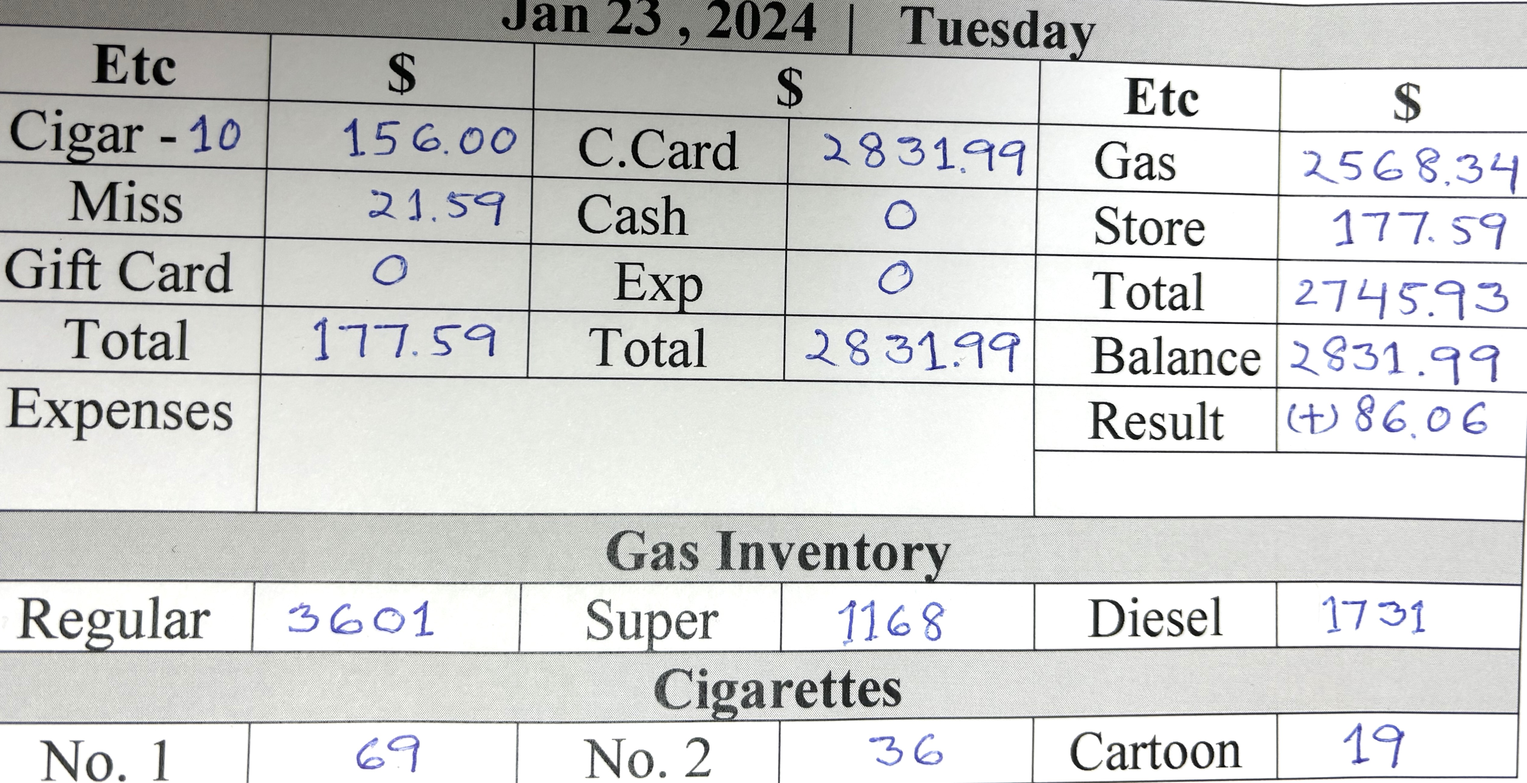
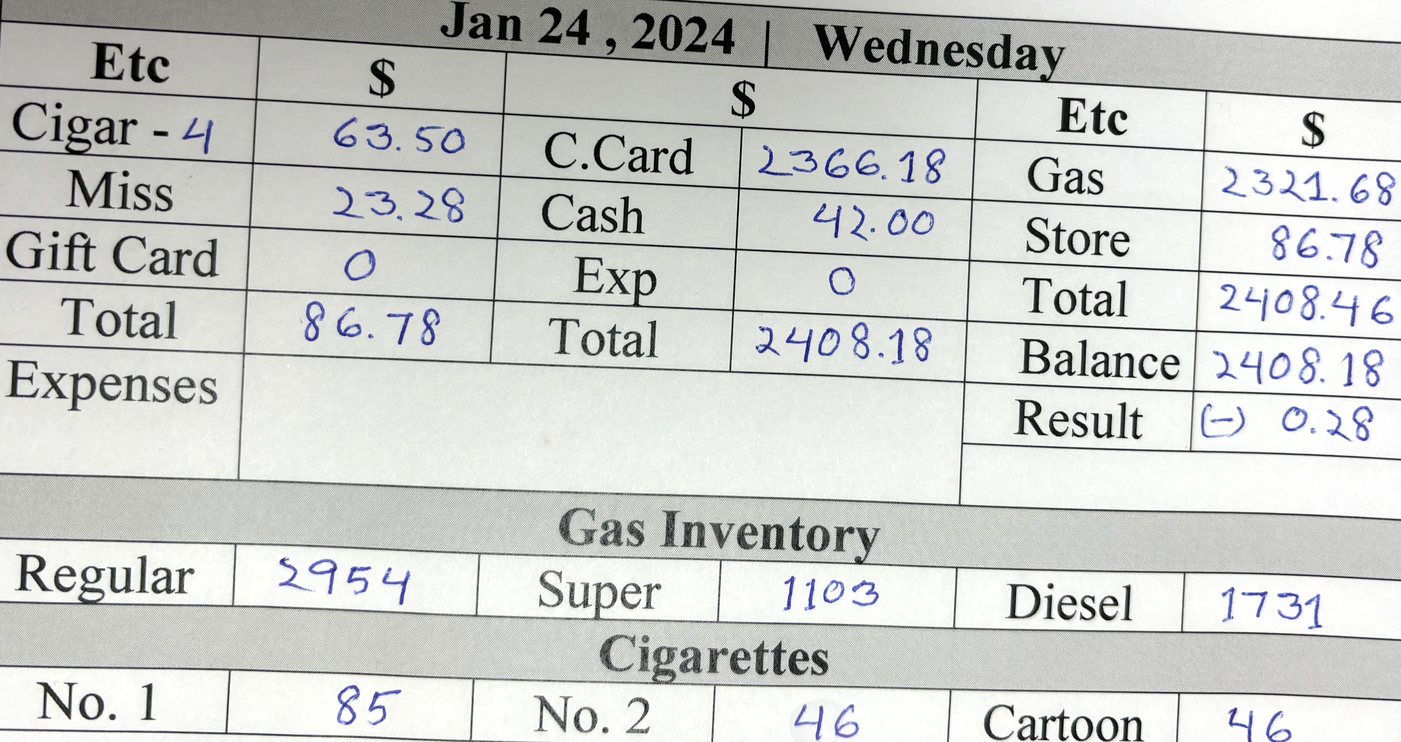
24 done

diff --git a/card.min.html b/card.min.html
@@ -1,1 +1,1 @@
-<!DOCTYPE html> <html lang="en"> <head> <meta charset="UTF-8"> <meta http-equiv="X-UA-Compatible" content="IE=edge"> <meta name="viewport" content="width=device-width,initial-scale=1"> <title>Gallon Info</title> <link rel="stylesheet" href="https://cdn.jsdelivr.net/npm/bootstrap@5.3.0-alpha1/dist/css/bootstrap.min.css"> </head> <body> <div class="card-group d-sm-flex flex-row bd-highlight mb- justify-content-center"> <div class="card bg-secondary align-items-center justify-content-center" style="height:50px"> <div class="card-body text-info fst-italic"> <h5 class="card-title fw-bolder text-center">Regular Price : <span class="text-warning">$3.09</span></h5> </div> </div> <div class="card bg-secondary align-items-center justify-content-center" style="height:50px"> <div class="card-body text-info fst-italic"> <h5 class="card-title fw-bolder text-center pt-">Silver Price : <span class="text-warning">$3.99</span></h5> </div> </div> <div class="card bg-secondary align-items-center justify-content-center" style="height:50px"> <div class="card-body text-info fst-italic"> <h5 class="card-title fw-bolder text-center">Super Price : <span class="text-warning">$4.09</span></h5> </div> </div> <div class="card bg-secondary align-items-center justify-content-center" style="height:50px"> <div class="card-body text-info fst-italic"> <h5 class="card-title fw-bolder text-center">Diesel Price : <span class="text-warning">$4.39</span></h5> </div> </div> </div> <div class="card-group"> <div class="card"> <button type="button" class="btn btn-warning text- fs- fw-bold text-uppercase"> For store Details <a title="printPage Me" class="text-bg-danger ms-3 fw-bolder p-1 rounded-3 text-decoration-none" href="index.html"> Click Me </a> </button> </div> </div> <div class="card-group m-0 d-sm-flex flex-row bd-highlight mb-"> <div class="card me-1 bg-info"> <h5 class="card-title text-center pt-4 m-0"> <button class="p-1 rounded-3" type="button"><a title="Click Me" class="text-decoration-none text-primary fw-bolder" href="index.html">   </a> </button> </h5>  <p class="card-text"></p> <img src="allPic/23.jpg" class="card-img-top text-danger text-center fw-bolder fs-3" alt="Call Rashid "> <div class="card-body">   <p class="card-text"></p> </div> </div> <div class="card me-1 bg-info"> <h5 class="card-title text-center pt-4 m-0"> <button class="p-1 rounded-3" type="button"><a title="Click Me" class="text-primary fw-bolder text-decoration-none" href="index.html"> Jan 22,2024 </a> </button> </h5>  <p class="card-text"></p> <img src="allPic/22.jpg" class="card-img-top text-center text-bg-danger" alt="Not Done"> <div class="card-body">   <p class="card-text"></p> </div> </div> <div class="card ms- bg-info"> <h5 class="card-title text-center pt-4 m-0"> <button class="p-1 rounded-3" type="button"><a title="Click Me" class="text-primary fw-bolder text-decoration-none" href="index.html"> Jan 21,2024 </a> </button> </h5>  <p class="card-text"></p> <img src="allPic/21.jpg" class="card-img-top text-center text-bg-danger" alt="Not Done"> <div class="card-body">   <p class="card-text"></p> </div> </div> <div class="card me-1 bg-info"> <h5 class="card-title text-center pt-4 m-0"> <button class="p-1 rounded-3" type="button"><a title="Click Me" class="text-primary fw-bolder text-decoration-none" href="index.html"> Jan 20,2024 </a> </button> </h5>  <p class="card-text"></p> <img title="Pic" src="allPic/20.jpg" class="card-img-top text-bg-danger fw-bolder text-center" alt="Already Done"> <div class="card-body">   <p class="card-text"></p> </div> </div> </div> <div class="card"> <div class="card-header bg-warning text-dark fw-bolder text-center py-3"> All Rights Reserved @ Jaber Ali , 2024 </div> </div>  <script type="text/javascript">const timeElement=document.querySelector(".time"),dateElement=document.querySelector(".date");function formatTime(e){e.getHours(),e.getMinutes(),e.getHours();return""}function formatDate(e){return` ${["January","February","March","April","May","June","July","August","September","October","November","December"][e.getMonth()]} ${e.getDate()-1}, ${e.getFullYear()}`}setInterval((()=>{const e=new Date;timeElement.textContent=formatTime(e),dateElement.textContent=formatDate(e)}),200)</script> 
+<!DOCTYPE html> <html lang="en"> <head> <meta charset="UTF-8"> <meta http-equiv="X-UA-Compatible" content="IE=edge"> <meta name="viewport" content="width=device-width,initial-scale=1"> <title>Gallon Info</title> <link rel="stylesheet" href="https://cdn.jsdelivr.net/npm/bootstrap@5.3.0-alpha1/dist/css/bootstrap.min.css"> </head> <body> <div class="card-group d-sm-flex flex-row bd-highlight mb- justify-content-center"> <div class="card bg-secondary align-items-center justify-content-center" style="height:50px"> <div class="card-body text-info fst-italic"> <h5 class="card-title fw-bolder text-center">Regular Price : <span class="text-warning">$2.99</span></h5> </div> </div> <div class="card bg-secondary align-items-center justify-content-center" style="height:50px"> <div class="card-body text-info fst-italic"> <h5 class="card-title fw-bolder text-center pt-">Silver Price : <span class="text-warning">$3.89</span></h5> </div> </div> <div class="card bg-secondary align-items-center justify-content-center" style="height:50px"> <div class="card-body text-info fst-italic"> <h5 class="card-title fw-bolder text-center">Super Price : <span class="text-warning">$3.99</span></h5> </div> </div> <div class="card bg-secondary align-items-center justify-content-center" style="height:50px"> <div class="card-body text-info fst-italic"> <h5 class="card-title fw-bolder text-center">Diesel Price : <span class="text-warning">$4.39</span></h5> </div> </div> </div> <div class="card-group"> <div class="card"> <button type="button" class="btn btn-warning text- fs- fw-bold text-uppercase"> For store Details <a title="printPage Me" class="text-bg-danger ms-3 fw-bolder p-1 rounded-3 text-decoration-none" href="index.html"> Click Me </a> </button> </div> </div> <div class="card-group m-0 d-sm-flex flex-row bd-highlight mb-"> <div class="card me-1 bg-info"> <h5 class="card-title text-center pt-4 m-0"> <button class="p-1 rounded-3" type="button"><a title="Click Me" class="text-decoration-none text-primary fw-bolder" href="index.html">   </a> </button> </h5>  <p class="card-text"></p> <img src="allPic/24.jpg" class="card-img-top text-danger text-center fw-bolder fs-3" alt="Call Rashid "> <div class="card-body">   <p class="card-text"></p> </div> </div> <div class="card me-1 bg-info"> <h5 class="card-title text-center pt-4 m-0"> <button class="p-1 rounded-3" type="button"><a title="Click Me" class="text-primary fw-bolder text-decoration-none" href="index.html"> Jan 23,2024 </a> </button> </h5>  <p class="card-text"></p> <img src="allPic/23.jpg" class="card-img-top text-center text-bg-danger" alt="Not Done"> <div class="card-body">   <p class="card-text"></p> </div> </div> <div class="card ms- bg-info"> <h5 class="card-title text-center pt-4 m-0"> <button class="p-1 rounded-3" type="button"><a title="Click Me" class="text-primary fw-bolder text-decoration-none" href="index.html"> Jan 22,2024 </a> </button> </h5>  <p class="card-text"></p> <img src="allPic/22.jpg" class="card-img-top text-center text-bg-danger" alt="Not Done"> <div class="card-body">   <p class="card-text"></p> </div> </div> <div class="card me-1 bg-info"> <h5 class="card-title text-center pt-4 m-0"> <button class="p-1 rounded-3" type="button"><a title="Click Me" class="text-primary fw-bolder text-decoration-none" href="index.html"> Jan 21,2024 </a> </button> </h5>  <p class="card-text"></p> <img title="Pic" src="allPic/21.jpg" class="card-img-top text-bg-danger fw-bolder text-center" alt="Already Done"> <div class="card-body">   <p class="card-text"></p> </div> </div> </div> <div class="card"> <div class="card-header bg-warning text-dark fw-bolder text-center py-3"> All Rights Reserved @ Jaber Ali , 2024 </div> </div>  <script type="text/javascript">const timeElement=document.querySelector(".time"),dateElement=document.querySelector(".date");function formatTime(e){e.getHours(),e.getMinutes(),e.getHours();return""}function formatDate(e){return` ${["January","February","March","April","May","June","July","August","September","October","November","December"][e.getMonth()]} ${e.getDate()-1}, ${e.getFullYear()}`}setInterval((()=>{const e=new Date;timeElement.textContent=formatTime(e),dateElement.textContent=formatDate(e)}),200)</script> 

diff --git a/weekly.min.html b/weekly.min.html
@@ -1,1 +1,1 @@
-<!DOCTYPE html> <html lang="en"> <meta charset="UTF-8"> <meta http-equiv="X-UA-Compatible" content="IE=edge"> <meta name="viewport" content="width=device-width,initial-scale=1"> <title>Cigarettes Info</title> <link rel="stylesheet" href="https://cdn.jsdelivr.net/npm/bootstrap@5.3.0-alpha1/dist/css/bootstrap.min.css">  <body> <div class="text-bg-success py-2 fw-bold"> <marquee behavior="" direction="">Weekly Total Sales Money</marquee> </div> <div class="container-fluid text-center m-0 p-0"> <div class="card-group"> <div class="card"> <button type="button" class="btn btn-warning fs- fw-bold text-uppercase"> Home Page <a title="printPage Me" class="text-bg-danger ms-2 fw-bolder p-1 rounded-3 text-decoration-none" href="index.html"> Click Me </a> </button> </div> </div> <div class="text-bg-info text-cente py- fw-bold mb-"> <div class="card-group m-0 d-sm-flex flex-row bd-highlight mb-"> <div class="card me- bg-inf"> <h5 class="text-center ms-5 mt-3 text-danger">Current Week</h5> <div class="card-body ms-3 p-0"> <table class="table"> <tr class="text-end"> <td>Monday </td> <td>:</td> <td class="text-start"> $ 537.00</td> </tr> <tr class="text-end"> <td>Tuesday </td> <td> :</td> <td class="text-start"> $ -86.00 [auto pabe]</td> </tr> <tr class="text-end"> <td>Wednesday</td> <td> :</td> <td class="text-start">$ 0.00</td> </tr> <tr class="text-end"> <td>Thursday </td> <td> :</td> <td class="text-start"> $ 0.00 </td> </tr> <tr class="text-end"> <td class="">Friday </td> <td> :</td> <td class="text-start"> $ 0.00 </td> </tr> <tr class="text-end"> <td>Saturday </td> <td> :</td> <td class="text-start">0.00</td> </tr> <tr class="text-end"> <td>Sunday </td> <td> :</td> <td class="text-start">0.00 </td> </tr> <tr class="text-end"> <td>Auto Money </td> <td> :</td> <td class="text-start"> 0.00</td> </tr> </table> <div class="m-0 p-0"> <p class="text-center text-danger bg-light fw-bold">Total Money : $ 00</p> </div> </div> </div> <div class="card me- bg-inf"> <h5 class="text-center ms-5 mt-3 text-danger">Last Week : Jan 15 to 21 , 2024</h5> <div class="card-body ms-3 p-0"> <table class="table"> <tr class="text-end"> <td>Monday </td> <td>:</td> <td class="text-start"> $ 594.00</td> </tr> <tr class="text-end"> <td>Tuesday </td> <td> :</td> <td class="text-start"> $ 490.00</td> </tr> <tr class="text-end"> <td>Wednesday</td> <td> :</td> <td class="text-start">$ 414.00</td> </tr> <tr class="text-end"> <td>Thursday </td> <td> :</td> <td class="text-start"> $ 390.00 </td> </tr> <tr class="text-end"> <td class="">Friday </td> <td> :</td> <td class="text-start"> $ 331.00 </td> </tr> <tr class="text-end"> <td>Saturday </td> <td> :</td> <td class="text-start">337.00</td> </tr> <tr class="text-end"> <td>Sunday </td> <td> :</td> <td class="text-start">426.00 </td> </tr> <tr class="text-end"> <td>Auto Money </td> <td> :</td> <td class="text-start"> 457.00 [Mostofa=451]</td> </tr> </table> <div class="m-0 p-0"> <p class="text-center text-danger bg-light fw-bold">Total Money : $ 3439 - 1097 = 2342</p> </div> </div> </div> <div class="card me- bg-"> <div class="card-body"> <h5 class="text-start text-danger ms-2">Expenses of Last Week</h5> <table class="table text-start"> <tr> <td class="">Ali <span class="ms-5">: $ 525.00</span></td> </tr> <tr> <td class="">Rashid <span class="ms-2">: $ 572.00</span></td> </tr> <tr> </tr> <tr> <td class="text-bg-warning text-dark rounded-2">Total <span class="ms-4">: $ 1097.00</span></td> </tr> </table> </div> </div> </div> </div> <!-- #footer start --> <div class="text-bg-success text-center py-2 fw-bold"> <p> All Rights Reserved @ Jaber Ali , 2023  </p> </div> </div> <script type="text/javascript">function printPage(){window.print()}</script> 
+<!DOCTYPE html> <html lang="en"> <meta charset="UTF-8"> <meta http-equiv="X-UA-Compatible" content="IE=edge"> <meta name="viewport" content="width=device-width,initial-scale=1"> <title>Cigarettes Info</title> <link rel="stylesheet" href="https://cdn.jsdelivr.net/npm/bootstrap@5.3.0-alpha1/dist/css/bootstrap.min.css">  <body> <div class="text-bg-success py-2 fw-bold"> <marquee behavior="" direction="">Weekly Total Sales Money</marquee> </div> <div class="container-fluid text-center m-0 p-0"> <div class="card-group"> <div class="card"> <button type="button" class="btn btn-warning fs- fw-bold text-uppercase"> Home Page <a title="printPage Me" class="text-bg-danger ms-2 fw-bolder p-1 rounded-3 text-decoration-none" href="index.html"> Click Me </a> </button> </div> </div> <div class="text-bg-info text-cente py- fw-bold mb-"> <div class="card-group m-0 d-sm-flex flex-row bd-highlight mb-"> <div class="card me- bg-inf"> <h5 class="text-center ms-5 mt-3 text-danger">Current Week</h5> <div class="card-body ms-3 p-0"> <table class="table"> <tr class="text-end"> <td>Monday </td> <td>:</td> <td class="text-start"> $ 537.00</td> </tr> <tr class="text-end"> <td>Tuesday </td> <td> :</td> <td class="text-start"> $ -86.00 [auto pabe]</td> </tr> <tr class="text-end"> <td>Wednesday</td> <td> :</td> <td class="text-start">$ 42.00</td> </tr> <tr class="text-end"> <td>Thursday </td> <td> :</td> <td class="text-start"> $ 0.00 </td> </tr> <tr class="text-end"> <td class="">Friday </td> <td> :</td> <td class="text-start"> $ 0.00 </td> </tr> <tr class="text-end"> <td>Saturday </td> <td> :</td> <td class="text-start">0.00</td> </tr> <tr class="text-end"> <td>Sunday </td> <td> :</td> <td class="text-start">0.00 </td> </tr> <tr class="text-end"> <td>Auto Money </td> <td> :</td> <td class="text-start"> 0.00</td> </tr> </table> <div class="m-0 p-0"> <p class="text-center text-danger bg-light fw-bold">Total Money : $ 00</p> </div> </div> </div> <div class="card me- bg-inf"> <h5 class="text-center ms-5 mt-3 text-danger">Last Week : Jan 15 to 21 , 2024</h5> <div class="card-body ms-3 p-0"> <table class="table"> <tr class="text-end"> <td>Monday </td> <td>:</td> <td class="text-start"> $ 594.00</td> </tr> <tr class="text-end"> <td>Tuesday </td> <td> :</td> <td class="text-start"> $ 490.00</td> </tr> <tr class="text-end"> <td>Wednesday</td> <td> :</td> <td class="text-start">$ 414.00</td> </tr> <tr class="text-end"> <td>Thursday </td> <td> :</td> <td class="text-start"> $ 390.00 </td> </tr> <tr class="text-end"> <td class="">Friday </td> <td> :</td> <td class="text-start"> $ 331.00 </td> </tr> <tr class="text-end"> <td>Saturday </td> <td> :</td> <td class="text-start">337.00</td> </tr> <tr class="text-end"> <td>Sunday </td> <td> :</td> <td class="text-start">426.00 </td> </tr> <tr class="text-end"> <td>Auto Money </td> <td> :</td> <td class="text-start"> 457.00 [Mostofa=451]</td> </tr> </table> <div class="m-0 p-0"> <p class="text-center text-danger bg-light fw-bold">Total Money : $ 3439 - 1097 = 2342</p> </div> </div> </div> <div class="card me- bg-"> <div class="card-body"> <h5 class="text-start text-danger ms-2">Expenses of Last Week</h5> <table class="table text-start"> <tr> <td class="">Ali <span class="ms-5">: $ 525.00</span></td> </tr> <tr> <td class="">Rashid <span class="ms-2">: $ 572.00</span></td> </tr> <tr> </tr> <tr> <td class="text-bg-warning text-dark rounded-2">Total <span class="ms-4">: $ 1097.00</span></td> </tr> </table> </div> </div> </div> </div> <!-- #footer start --> <div class="text-bg-success text-center py-2 fw-bold"> <p> All Rights Reserved @ Jaber Ali , 2023  </p> </div> </div> <script type="text/javascript">function printPage(){window.print()}</script> 

diff --git a/index.min.html b/index.min.html
@@ -1,1 +1,1 @@
-<!DOCTYPE html> <html lang="en"> <head> <meta charset="UTF-8"> <meta http-equiv="X-UA-Compatible" content="IE=edge"> <meta name="viewport" content="width=device-width,initial-scale=1"> <title>Store Info</title> <link rel="stylesheet" href="https://cdn.jsdelivr.net/npm/bootstrap@5.3.0-alpha1/dist/css/bootstrap.min.css"> </head> <body> <div class="text-bg-success py-2 fw-bold text-uppercase"> <marquee behavior="" direction=""><span class="text-bolder text-bg-danger rounded-circle m-lg-2 fs-">***</span> Personal Business Information <span class="text-bolder text-bg-danger rounded-circle m-lg-2 fs-">***</span></marquee> </div> <div class="card-group"> <div class="card"> <button type="button" class="btn btn-warning fs- fw-bold text-uppercase"> For Gallon Details <a title="printPage Me" class="text-bg-danger ms-3 fw-bolder p-1 rounded-3 text-decoration-none" href="card.html"> Click Me </a> </button> </div> </div> <div class="card-group"> <div class="card"> <button type="button" class="btn btn-warning fs- fw-bold text-uppercase"> Order Cigarettes <a title="printPage Me" class="text-bg-danger ms-3 fw-bolder p-1 rounded-3 text-decoration-none" href="cigarettes.html"> Click Me </a> </button> </div> <div class="card"> <button type="button" class="btn btn-warning fs- fw-bold text-uppercase"> Weekly Total Money<a title="printPage Me" class="text-bg-danger ms-3 fw-bolder p-1 rounded-3 text-decoration-none" href="weekly.html"> Click Me </a> </button> </div> </div> <div class="text-center py-2"> <button class="fw-bold fs-5 rounded-2 text-bg-light text-primary"> <a title="printPage Me" class="text-decoration-none" href="card.html">   <span class=""> <button class="ms-5 fw-bolder rounded-2" onclick="printPage()"> Print Me </button></span> </a> </button> </div> <div class="card-group"> <div class="card"> <button type="button" class="btn btn-info fs- fw-bold text-uppercase"> Shift Report <span class="text-white ms-1">*</span> </button> <img src="allPic/hisab.jpg" class="card-img-top text-center text-bg-danger" alt="NOT FINISH"> </div> </div> <div class="card-grou"> <div class="card pb-3"> <button type="button" class="btn btn-secondary fs fw-bold text-uppercase"> Exp : <span class="text-warning ms-3">0</span> </button> </div> </div> <div class="card-group"> <div class="card"> <button type="button" class="btn btn-secondary fs- fw-bold text-uppercase"> Auto shop </button> </div> </div> <div class="pb-3"> <div class="d-flex justify-content-around border border-dark fw-bolder"> <div class="p-0 text-info">T.M</div> <div class="p-0 text-danger">1111</div> <div class="p-0 text-info">Etc</div> <div class="p-0 text-danger">397</div> <div class="p-0 text-info">Rest</div> <div class="p-0 text-danger">714</div> </div> </div> <!-- #footer start --> <div class="text-bg-warning text-center py-3 fw-bold"> All Rights Reserved @ Jaber Ali , 2024 </div>  <script type="text/javascript">function printPage(){window.print()}const timeElement=document.querySelector(".time"),dateElement=document.querySelector(".date");function formatTime(t){const e=t.getHours()%12||12,n=t.getMinutes(),r=t.getHours()<12;return`${e.toString().padStart(2,"0")}:${n.toString().padStart(2,"0")} ${r?"AM":"PM"}`}function formatDate(t){return` ${["January","February","March","April","May","June","July","August","September","October","November","December"][t.getMonth()]} ${t.getDate()-1}, ${t.getFullYear()}`}setInterval((()=>{const t=new Date;timeElement.textContent=formatTime(t),dateElement.textContent=formatDate(t)}),200)</script> 
+<!DOCTYPE html> <html lang="en"> <head> <meta charset="UTF-8"> <meta http-equiv="X-UA-Compatible" content="IE=edge"> <meta name="viewport" content="width=device-width,initial-scale=1"> <title>Store Info</title> <link rel="stylesheet" href="https://cdn.jsdelivr.net/npm/bootstrap@5.3.0-alpha1/dist/css/bootstrap.min.css"> </head> <body> <div class="text-bg-success py-2 fw-bold text-uppercase"> <marquee behavior="" direction=""><span class="text-bolder text-bg-danger rounded-circle m-lg-2 fs-">***</span> Personal Business Information <span class="text-bolder text-bg-danger rounded-circle m-lg-2 fs-">***</span></marquee> </div> <div class="card-group"> <div class="card"> <button type="button" class="btn btn-warning fs- fw-bold text-uppercase"> For Gallon Details <a title="printPage Me" class="text-bg-danger ms-3 fw-bolder p-1 rounded-3 text-decoration-none" href="card.html"> Click Me </a> </button> </div> </div> <div class="card-group"> <div class="card"> <button type="button" class="btn btn-warning fs- fw-bold text-uppercase"> Order Cigarettes <a title="printPage Me" class="text-bg-danger ms-3 fw-bolder p-1 rounded-3 text-decoration-none" href="cigarettes.html"> Click Me </a> </button> </div> <div class="card"> <button type="button" class="btn btn-warning fs- fw-bold text-uppercase"> Weekly Total Money<a title="printPage Me" class="text-bg-danger ms-3 fw-bolder p-1 rounded-3 text-decoration-none" href="weekly.html"> Click Me </a> </button> </div> </div> <div class="text-center py-2"> <button class="fw-bold fs-5 rounded-2 text-bg-light text-primary"> <a title="printPage Me" class="text-decoration-none" href="card.html">   <span class=""> <button class="ms-5 fw-bolder rounded-2" onclick="printPage()"> Print Me </button></span> </a> </button> </div> <div class="card-group"> <div class="card"> <button type="button" class="btn btn-info fs- fw-bold text-uppercase"> Shift Report <span class="text-white ms-1">*</span> </button> <img src="allPic/hisab.jpg" class="card-img-top text-center text-bg-danger" alt="NOT FINISH"> </div> </div> <div class="card-grou"> <div class="card pb-3"> <button type="button" class="btn btn-secondary fs fw-bold text-uppercase"> Exp : <span class="text-warning ms-3">0</span> </button> </div> </div> <div class="card-group"> <div class="card"> <button type="button" class="btn btn-secondary fs- fw-bold text-uppercase"> Auto shop </button> </div> </div> <div class="pb-3"> <div class="d-flex justify-content-around border border-dark fw-bolder"> <div class="p-0 text-info">T.M</div> <div class="p-0 text-danger">1227</div> <div class="p-0 text-info">Etc</div> <div class="p-0 text-danger">567</div> <div class="p-0 text-info">Rest</div> <div class="p-0 text-danger">660</div> </div> </div> <!-- #footer start --> <div class="text-bg-warning text-center py-3 fw-bold"> All Rights Reserved @ Jaber Ali , 2024 </div>  <script type="text/javascript">function printPage(){window.print()}const timeElement=document.querySelector(".time"),dateElement=document.querySelector(".date");function formatTime(t){const e=t.getHours()%12||12,n=t.getMinutes(),r=t.getHours()<12;return`${e.toString().padStart(2,"0")}:${n.toString().padStart(2,"0")} ${r?"AM":"PM"}`}function formatDate(t){return` ${["January","February","March","April","May","June","July","August","September","October","November","December"][t.getMonth()]} ${t.getDate()-1}, ${t.getFullYear()}`}setInterval((()=>{const t=new Date;timeElement.textContent=formatTime(t),dateElement.textContent=formatDate(t)}),200)</script> 

diff --git a/cigarettes.min.html b/cigarettes.min.html
@@ -1,1 +1,1 @@
-<!DOCTYPE html> <html lang="en"> <meta charset="UTF-8"> <meta http-equiv="X-UA-Compatible" content="IE=edge"> <meta name="viewport" content="width=device-width,initial-scale=1"> <title>Cigarettes Info</title> <link rel="stylesheet" href="https://cdn.jsdelivr.net/npm/bootstrap@5.3.0-alpha1/dist/css/bootstrap.min.css">  <body> <div class="text-bg-success py-2 fw-bold"> <marquee behavior="" direction="">BP, 507 Jerusalem Ave , North Bellmore NY 11710</marquee> </div> <div class="container-fluid text-center m-0 p-0 bg-light"> <div class="card-group"> <div class="card"> <button type="button" class="btn btn-warning fs- fw-bold text-uppercase"> For store Details <a title="printPage Me" class="text-bg-danger ms-3 fw-bolder p-1 rounded-3 text-decoration-none" href="index.html"> Click Me </a> </button> </div> </div> <div class="row"> <div class="col"> <table class="table table-success table-striped table-bordered border-success text-primary fw-bold"> <tbody> <h4 class="text-danger">Make an Order Cigarettes :</h4> <tr class="text-primary text-start fs-5 fw-bolder"> <td class="text-primary text-start fs-5 fw-bolde"> <ol class="ms-3"> <li class=""> Marlboro light box </li> <li class=""> Newport Box Short </li> <li class=""> Merit Blue </li> <ol> <td> <tr> </ol></ol></tbody> </table> </div> <h3> <button title="For April-23" type="button" class="btn btn-danger fw-bolder"> Total : { * } Carton on Hand in Store </button> </h3> </div> <div class="row"> <div class="col"> <table class="table table-success table-striped table-bordered border-success text-primary fw-bold"> <tbody> <tr> </tr> </tbody> </table> </div> </div> </div> <div class="text-bg-info text-center py-1 fw-bold mb-2"> <h4 class="text-">Monthly Cigar Purchase :</h4> <div class="card-group m-0 d-sm-flex flex-row bd-highlight mb-"> <div class="card me-1 bg-info"> <h5 class="card-title text-center pt-4 m-0"> <button class="p-1 rounded-3" type="button"> <a title="Click Me" class="text-decoration-none text-primary fw-bolder" href="index.html"> Month : Dec , 2023 </a> </button> </h5>  <p class="card-text"></p> <img src="allPic/dec_cigar.jpg" class="card-img-top text-danger text-center fw-bolder fs-3" alt="Not Done "> <div class="card-body">   <p class="card-text"></p> </div> </div> <div class="card me-1 bg-info"> <h5 class="card-title text-center pt-4 m-0"> <button class="p-1 rounded-3" type="button"> <a title="Click Me" class="text-primary fw-bolder text-decoration-none" href="index.html"> Month : Nov , 2023 </a> </button> </h5>  <p class="card-text"></p> <img src="allPic/nov.jpg" class="card-img-top text-center text-bg-danger" alt="Not Done"> <div class="card-body">   <p class="card-text"></p> </div> </div> </div> </div> <!-- #footer start --> <div class="text-bg-success text-center py-2 fw-bold"> <p> All Rights Reserved @ Jaber Ali , 2023  </p> </div>  <script type="text/javascript">function printPage(){window.print()}</script> 
+<!DOCTYPE html> <html lang="en"> <meta charset="UTF-8"> <meta http-equiv="X-UA-Compatible" content="IE=edge"> <meta name="viewport" content="width=device-width,initial-scale=1"> <title>Cigarettes Info</title> <link rel="stylesheet" href="https://cdn.jsdelivr.net/npm/bootstrap@5.3.0-alpha1/dist/css/bootstrap.min.css">  <body> <div class="text-bg-success py-2 fw-bold"> <marquee behavior="" direction="">BP, 507 Jerusalem Ave , North Bellmore NY 11710</marquee> </div> <div class="container-fluid text-center m-0 p-0 bg-light"> <div class="card-group"> <div class="card"> <button type="button" class="btn btn-warning fs- fw-bold text-uppercase"> For store Details <a title="printPage Me" class="text-bg-danger ms-3 fw-bolder p-1 rounded-3 text-decoration-none" href="index.html"> Click Me </a> </button> </div> </div> <div class="row"> <div class="col"> <table class="table table-success table-striped table-bordered border-success text-primary fw-bold"> <tbody> <h4 class="text-danger">Make an Order Cigarettes :</h4> <tr class="text-primary text-start fs-5 fw-bolder"> <td class="text-primary text-start fs-5 fw-bolde"> <ol class="ms-3"> <li class=""> Marlboro light box </li> <li class=""> Newport Box Short </li> <li class=""> Merit Blue </li> <ol> <td> <tr> </ol></ol></tbody> </table> </div> <h3> <button title="For April-23" type="button" class="btn btn-danger fw-bolder"> Total : { * } Carton on Hand in Store </button> </h3> </div> <div class="row"> <div class="col"> <table class="table table-success table-striped table-bordered border-success text-primary fw-bold"> <tbody> <tr> </tr> </tbody> </table> </div> </div> </div> <div class="text-bg-info text-center py-1 fw-bold mb-2"> <h4 class="text-">Monthly Cigar Purchase :</h4> <div class="card-group m-0 d-sm-flex flex-row bd-highlight mb-"> <div class="card me-1 bg-info"> <h5 class="card-title text-center pt-4 m-0"> <button class="p-1 rounded-3" type="button"> <a title="Click Me" class="text-decoration-none text-primary fw-bolder" href="index.html"> Month : Jan , 2024 </a> </button> </h5>  <p class="card-text"></p> <img src="allPic/jan.jpg" class="card-img-top text-danger text-center fw-bolder fs-3" alt="Not Done "> <div class="card-body">   <p class="card-text"></p> </div> </div> <div class="card me-1 bg-info"> <h5 class="card-title text-center pt-4 m-0"> <button class="p-1 rounded-3" type="button"> <a title="Click Me" class="text-primary fw-bolder text-decoration-none" href="index.html"> Month : Dec , 2023 </a> </button> </h5>  <p class="card-text"></p> <img src="allPic/dec_cigar.jpg" class="card-img-top text-center text-bg-danger" alt="Not Done"> <div class="card-body">   <p class="card-text"></p> </div> </div> </div> </div> <!-- #footer start --> <div class="text-bg-success text-center py-2 fw-bold"> <p> All Rights Reserved @ Jaber Ali , 2023  </p> </div>  <script type="text/javascript">function printPage(){window.print()}</script> 

diff --git a/card.html b/card.html
@@ -15,20 +15,20 @@
     <div class="card bg-secondary align-items-center justify-content-center" style="height:50px;">
       <div class="card-body text-info fst-italic">
         <h5 class="card-title fw-bolder text-center">Regular Price : 
-          <span class="text-warning">$3.09</span></h5>
+          <span class="text-warning">$2.99</span></h5>
       </div>
     </div>
 
     <div class="card bg-secondary align-items-center justify-content-center " style="height:50px;">
       <div class="card-body text-info  fst-italic ">
         <h5 class="card-title fw-bolder text-center pt-">Silver Price :
-           <span class="text-warning">$3.99</span></h5>
+           <span class="text-warning">$3.89</span></h5>
       </div>
     </div>
     <div class="card bg-secondary align-items-center justify-content-center" style="height:50px;">
       <div class="card-body text-info fst-italic">
         <h5 class="card-title fw-bolder text-center">Super Price : 
-          <span class="text-warning">$4.09</span></h5>
+          <span class="text-warning">$3.99</span></h5>
       </div>
     </div>
     <div class="card bg-secondary align-items-center justify-content-center" style="height:50px;">
@@ -67,7 +67,7 @@
         </h5>
           <p class="card-text"></p>
           <p class="card-text"><small class="text-muted"></small></p>
-        <img src="allPic/23.jpg" class="card-img-top text-danger text-center fw-bolder fs-3"   alt="Call Rashid ">
+        <img src="allPic/24.jpg" class="card-img-top text-danger text-center fw-bolder fs-3"   alt="Call Rashid ">
         <div class="card-body">
           <h5 class="card-title"></h5>
           <p class="card-text"></p>
@@ -78,13 +78,13 @@
         <h5 class="card-title text-center pt-4 m-0">
           <button class="p-1 rounded-3" type="button"><a title="Click Me"
              class="text-primary fw-bolder text-decoration-none " href="index.html">
-             Jan 22,2024
+             Jan 23,2024
           </a>
           </button>
         </h5>
           <p class="card-text"></p>
           <p class="card-text"><small class="text-muted"></small></p>
-        <img src="allPic/22.jpg" class="card-img-top text-center text-bg-danger" 
+        <img src="allPic/23.jpg" class="card-img-top text-center text-bg-danger" 
         alt="Not Done">
         <div class="card-body">
           <h5 class="card-title"></h5>
@@ -96,13 +96,13 @@
         <h5 class="card-title text-center pt-4 m-0 ">
           <button class="p-1 rounded-3" type="button"><a title="Click Me" 
             class="text-primary fw-bolder text-decoration-none " href="index.html">
-            Jan 21,2024         
+            Jan 22,2024         
           </a>
           </button>
           </h5>
           <p class="card-text"></p>
           <p class="card-text"><small class="text-muted"></small></p>
-        <img src="allPic/21.jpg" class="card-img-top text-center text-bg-danger" 
+        <img src="allPic/22.jpg" class="card-img-top text-center text-bg-danger" 
         alt="Not Done">
         <div class="card-body">
           <h5 class="card-title"></h5>
@@ -115,13 +115,13 @@
         <h5 class="card-title text-center pt-4 m-0 ">
           <button class="p-1 rounded-3" type="button"><a title="Click Me" 
             class="text-primary fw-bolder text-decoration-none " href="index.html">
-             Jan 20,2024
+             Jan 21,2024
             </a>
           </button>
           </h5>
           <p class="card-text"></p>
           <p class="card-text"><small class="text-muted"></small></p>
-        <img title="Pic" src="allPic/20.jpg" class="card-img-top  text-bg-danger fw-bolder text-center"
+        <img title="Pic" src="allPic/21.jpg" class="card-img-top  text-bg-danger fw-bolder text-center"
          alt="Already Done">
         <div class="card-body">
           <h5 class="card-title"></h5>

diff --git a/cigarettes.html b/cigarettes.html
@@ -125,7 +125,7 @@
                 class="text-decoration-none text-primary fw-bolder"
                 href="index.html"
               >
-                Month : Dec , 2023
+                Month : Jan , 2024
                 <!-- <div class="time"></div>
                     <div class="date"></div> -->
               </a>
@@ -134,7 +134,7 @@
           <p class="card-text"></p>
           <p class="card-text"><small class="text-muted"></small></p>
           <img
-            src="allPic/dec_cigar.jpg"
+            src="allPic/jan.jpg"
             class="card-img-top text-danger text-center fw-bolder fs-3"
             alt="Not Done "
           />
@@ -152,14 +152,14 @@
                 class="text-primary fw-bolder text-decoration-none"
                 href="index.html"
               >
-                Month : Nov , 2023
+                Month : Dec , 2023
               </a>
             </button>
           </h5>
           <p class="card-text"></p>
           <p class="card-text"><small class="text-muted"></small></p>
           <img
-            src="allPic/nov.jpg"
+            src="allPic/dec_cigar.jpg"
             class="card-img-top text-center text-bg-danger"
             alt="Not Done"
           />

diff --git a/index.html b/index.html
@@ -106,11 +106,11 @@
       <div class="d-flex justify-content-around border border-dark fw-bolder">
         <!--this week start-->
         <div class="p-0 text-info">T.M</div>
-        <div class="p-0 text-danger">1111</div>
+        <div class="p-0 text-danger">1227</div>
         <div class="p-0 text-info">Etc</div>
-        <div class="p-0 text-danger">397</div>
+        <div class="p-0 text-danger">567</div>
         <div class="p-0 text-info">Rest</div>
-        <div class="p-0 text-danger">714</div>
+        <div class="p-0 text-danger">660</div>
           <!--35-->
         </div>
       </div>

diff --git a/weekly.html b/weekly.html
@@ -59,7 +59,7 @@
                 <tr class=" text-end">
                     <td>Wednesday</td>
                     <td> :</td>
-                    <td class="text-start">$ 0.00</td>
+                    <td class="text-start">$ 42.00</td>
                 </tr>
                 <tr class=" text-end">
                     <td>Thursday </td>
